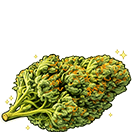
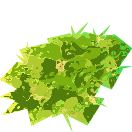
Update title

diff --git a/index.html b/index.html
@@ -7,7 +7,7 @@
       content="width=device-width, initial-scale=1.0, user-scalable=no"
     />
 
-    <title>Find the Ball</title>
+    <title>Find the Goods</title>
     <link
       href="https://fonts.googleapis.com/css2?family=Playfair+Display:wght@700;900&family=Nunito:wght@700;900&display=swap"
       rel="stylesheet"